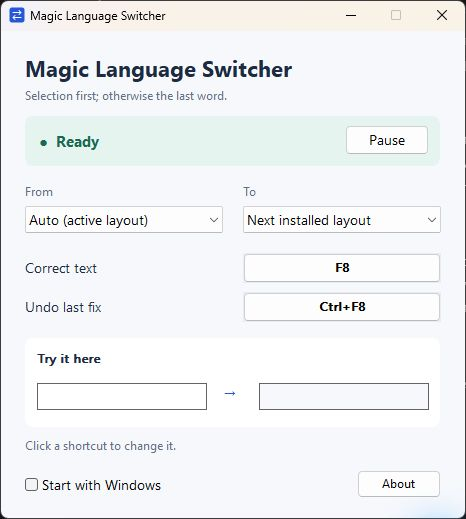
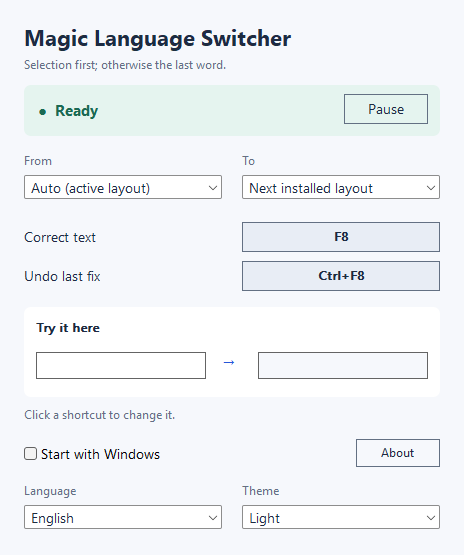
Document localized appearance and verify v0.2.0 release assets

diff --git a/README.md b/README.md
@@ -8,11 +8,15 @@ A lightweight **Windows app** that fixes text typed in the wrong keyboard layout
 
 `ghbdtn vbh` → `привет мир` is one example. Conversion uses the keyboard layouts installed in Windows, rather than a hardcoded English/Russian pair.
 
-**[Download Windows x64 — v0.1.3](https://github.com/siarheisinelnikau/magic-language-switcher/releases/download/v0.1.3/MagicLanguageSwitcher-v0.1.3.exe)** · [Release notes](https://github.com/siarheisinelnikau/magic-language-switcher/releases/tag/v0.1.3) · [Report an issue](https://github.com/siarheisinelnikau/magic-language-switcher/issues)
+**[Download Windows x64 — v0.2.0](https://github.com/siarheisinelnikau/magic-language-switcher/releases/download/v0.2.0/MagicLanguageSwitcher-v0.2.0.exe)** · [Release notes](https://github.com/siarheisinelnikau/magic-language-switcher/releases/tag/v0.2.0) · [Report an issue](https://github.com/siarheisinelnikau/magic-language-switcher/issues)
 
-![Magic Language Switcher settings with installed keyboard layouts, two editable shortcuts, and a conversion preview](assets/settings.png)
+![Magic Language Switcher settings in English with the light theme, keyboard layouts, shortcuts, and language and theme dropdowns](assets/settings.png)
 
-*The application settings window: choose layouts, customize correction and undo, and try a conversion without leaving the app.*
+*Settings in English with the light theme, including the saved language and theme choices. Real v0.2.0 client-area capture at 100% scale with an empty preview.*
+
+![Magic Language Switcher settings in Russian with the dark theme and dark native dropdown contents](assets/settings-dark-ru.png)
+
+*The same settings window in Russian with the dark theme. These isolated application captures use real native controls; they do not show OS tray interactions or Windows-owned dialogs.*
 
 ## What it does
 
@@ -20,11 +24,13 @@ A lightweight **Windows app** that fixes text typed in the wrong keyboard layout
 - **Separate undo:** restore the last correction while the text and caret still match.
 - **Installed Windows layouts:** select any supported direct-key layout pair, including variants and AltGr mappings.
 - **Compact native UI:** editable shortcuts, a live preview, optional Windows startup, and an active-language tray icon.
+- **Six interface languages:** English, Русский, Français, Deutsch, Español, and Italiano; switch instantly in settings.
+- **Light and dark themes:** a simple saved choice in the same settings window.
 - **Portable Rust app:** one EXE with in-app GitHub update checks, verified downloads, and restart.
 
 ## Get started
 
-1. Download the EXE from [Releases](https://github.com/siarheisinelnikau/magic-language-switcher/releases/latest). The v0.1.3 file is **`MagicLanguageSwitcher-v0.1.3.exe`**, a Windows x64 build.
+1. Download the EXE from [Releases](https://github.com/siarheisinelnikau/magic-language-switcher/releases/latest). The v0.2.0 file is **`MagicLanguageSwitcher-v0.2.0.exe`**, a Windows x64 build.
 2. Put it in a folder you want to keep and run it. No installer, .NET, browser engine, or VC++ redistributable is needed.
 3. Select mistyped text, or leave the caret after a mistyped word, and press **F8**. The same key handles both cases.
 
@@ -65,9 +71,21 @@ This is physical-key conversion, not translation or transliteration. **IME candi
 
 - **Pause** temporarily disables correction shortcuts; the language icon remains available.
 - **Start with Windows** adds this EXE to your own user's startup entries. Keep the EXE in its final folder before enabling it; disable the option before moving or deleting it.
-- Layout choices and shortcuts are saved in `%LOCALAPPDATA%\MagicLanguageSwitcher\settings.conf`.
+- **Language** changes the interface independently of the **From** and **To** keyboard conversion layouts. English is the default; the six language names stay in their native spelling so you can always find your language.
+- **Theme → Light / Dark** changes the settings palette immediately. The selected language and theme survive restart. Windows-owned menus and dialogs retain native Windows styling.
+- Layout choices, shortcuts, language, and theme are saved in `%LOCALAPPDATA%\MagicLanguageSwitcher\settings.conf`.
 - Run with `--background` to start directly in the tray.
 - **About** contains the installed version, project link, manual update check, startup-check toggle, and an expandable MIT license.
+
+## Capture a settings screenshot
+
+The developer-only capture mode renders the real client area with native controls, saves a PNG, and exits. It uses isolated default preferences, reads installed keyboard layouts, and starts no tray icon, shortcuts, correction worker, update requests, or Windows startup changes. It does not capture the desktop or inject input.
+
+```powershell
+.\target\release\magic-language-switcher.exe --capture-settings C:\Temp\settings.png ru dark
+```
+
+Choose `en`, `ru`, `fr`, `de`, `es`, or `it`, followed by `light` or `dark`. Apply an external timeout when using this diagnostic in automation. A capture checks layout and colors; it does not prove interactive tray behavior or normal idle performance.
 
 ## Updates
 
@@ -105,10 +123,10 @@ Package the executable with the release naming convention:
 powershell -NoProfile -ExecutionPolicy Bypass -File tools/package-release.ps1
 ```
 
-This builds a Windows x64 EXE, checks its PE imports, and writes `MagicLanguageSwitcher-vVERSION.exe` and `SHA256SUMS.txt` to `artifacts\vVERSION\`, using the Cargo package version. The checksum file names the exact packaged EXE. For a source package with version 0.1.3:
+This builds a Windows x64 EXE, checks its PE imports, and writes `MagicLanguageSwitcher-vVERSION.exe` and `SHA256SUMS.txt` to `artifacts\vVERSION\`, using the Cargo package version. The checksum file names the exact packaged EXE. For a source package with version 0.2.0:
 
 ```powershell
-Get-FileHash .\artifacts\v0.1.3\MagicLanguageSwitcher-v0.1.3.exe -Algorithm SHA256
+Get-FileHash .\artifacts\v0.2.0\MagicLanguageSwitcher-v0.2.0.exe -Algorithm SHA256
 ```
 
 ## Tests

diff --git a/docs/releases/v0.2.0.md b/docs/releases/v0.2.0.md
@@ -1,0 +1,28 @@
+# Magic Language Switcher v0.2.0
+
+This release adds six interface languages and a simple light/dark appearance choice while keeping keyboard conversion independent of the interface language.
+
+## Added
+- English, Russian, French, German, Spanish, and Italian for settings, correction and clipboard guidance, shortcut recording, tray menus, About, update checks, and download progress.
+- Discoverable **Language** and **Theme** dropdowns at the bottom of settings. Choices apply immediately and are retained after restart.
+- An isolated developer capture mode for the real settings window, with an explicit locale and theme.
+
+## Improved
+- A coherent dark palette for CPU-rasterized panels, text, native inputs, and buttons, including keyboard focus and pressed states.
+- Existing conversion layouts, customized shortcuts, Windows startup behavior, and startup update opt-out survive the settings migration.
+- Parameterized translations preserve version numbers, shortcut names, transferred sizes, and technical error details. Editor content and installed layout names are not translated.
+
+## Download and upgrade
+- Windows 10 version 1607 or newer / Windows 11, x64.
+- Portable executable: **MagicLanguageSwitcher-v0.2.0.exe**; SHA-256 is supplied in **SHA256SUMS.txt**.
+- Versions v0.1.3 and newer can use **About → Check for updates → Download and install**. v0.1.2 needs a one-time manual download because it recognizes the older asset filename. Existing settings are retained.
+- The EXE is unsigned. Native Windows menus and dialogs keep Windows styling; the app settings window uses the selected theme.
+
+## Verification
+- Formatting and Clippy with all targets/features pass. Offline tests passed 33 unit checks and one isolated updater handoff/rollback integration check; four desktop/global-shortcut checks are intentionally ignored.
+- The optimized Windows x64 executable passes PE/system-DLL checks and packaged icon extraction at 16, 20, 24, 32, 48, 64, 128, and 256 pixels.
+- Real English/light and Russian/dark settings captures were inspected at 464 × 555 client pixels (100% scale); both finite capture processes exited successfully.
+- A 24.77-second isolated CPU/GDI diagnostic sampled visible, hidden, minimized, and restored idle for approximately five seconds each. Every settled sample recorded no additional paints, rasterizations, or presentations and no measurable process CPU. The background raster was generated once across all transitions.
+- This diagnostic excludes normal tray/hotkeys, correction workers, network requests, and user settings. GPU timing, physical input latency, tray interaction, and mixed-DPI behavior remain unverified. Native Windows dialogs use Windows styling.
+
+See `docs/diagnostics/render-idle-v0.2.0-2026-11-01.json` for the version-specific report. Historical performance reports remain labeled with their original binaries.

diff --git a/docs/ui-performance.md b/docs/ui-performance.md
@@ -36,3 +36,11 @@ In a Windows x64 release-build comparison on the same machine, the previous sync
 The CPU background was rasterized once for 21 paint callbacks. Both implementations produced zero additional background paint callbacks during the one-second visible and hidden idle samples. The new CPU/DIB paint callback measured about 0.41 ms at the median, versus 0.23 ms for the previous direct GDI background drawing; the renderer change is not evidence of a universal painting-speed improvement.
 
 These samples measure application callbacks and explicit repaint requests. They do not measure physical mouse-to-photon latency, all native control paints, desktop composition, or driver/presentation stalls. Verify the packaged executable with actual button clicks, typing, hide/restore, and monitor DPI changes. A perceptual lag report remains unconfirmed until that interaction is checked with the user.
+
+## v0.2.0 localization and theme verification
+
+The theme is applied only when loaded or changed. Language changes update native labels and list contents once, preserving independent conversion layouts and shortcuts. The CPU frame key already includes scene colors, so changing the palette invalidates one retained frame; unchanged paint/print requests reuse it. Native dropdown contents and push buttons use the same palette and retain their native keyboard/accessibility names. Normal hidden/minimized paints still skip rendering; an explicit diagnostic print request may render a finite frame for capture.
+
+`docs/diagnostics/render-idle-v0.2.0-2026-11-01.json` records the optimized x64 executable, CPU/GDI renderer, module observations, frame counters, and isolation. In its 24.77-second diagnostic, all four settled samples (visible, hidden, minimized, restored) lasted about five seconds and recorded zero additional paints, rasters, or presents, with zero measured CPU at the process clock's resolution. Startup/transitions generated one background raster in total. Graphics module observations support the source inspection and do not measure compositor/GPU timing.
+
+The README contains real application-generated English/light and Russian/dark client-area captures at 464 × 555 pixels (100% scale). Both captures complete and exit without user preferences, tray registration, hotkeys, correction workers, update traffic, or startup changes. The native embedded icon resources were also loaded and rendered from the packaged EXE. These checks establish static layout and bounded isolated idle behavior; actual tray clicks, global shortcuts, normal worker lifecycle, physical input latency, GPU/compositor timing, and mixed-DPI behavior remain separate manual checks.

diff --git a/CHANGELOG.md b/CHANGELOG.md
@@ -1,5 +1,17 @@
 # Changelog
 
+## 0.2.0 — 2026-11-01
+
+### Added
+- English, Russian, French, German, Spanish, and Italian interface localization across settings, correction guidance, shortcut editing, tray actions, About, and update controls.
+- Saved language and light/dark theme dropdowns in the settings window, applied immediately without changing keyboard conversion layouts or shortcut preferences.
+- A finite, isolated native settings capture mode for checking localized layouts and both themes.
+
+### Improved
+- Theme-aware retained CPU backgrounds, native edit/list colors, accessible button labels, keyboard focus, and owner-drawn button states.
+- Migration of existing settings keeps conversion layouts, shortcuts, and the startup update opt-out.
+- Catalog checks cover complete translations, unique messages, and matching dynamic placeholders.
+
 ## 0.1.3 — 2026-10-31
 
 - Nonblocking update checks on startup, enabled by default with a persistent About opt-out; no-update results and startup errors stay quiet.
